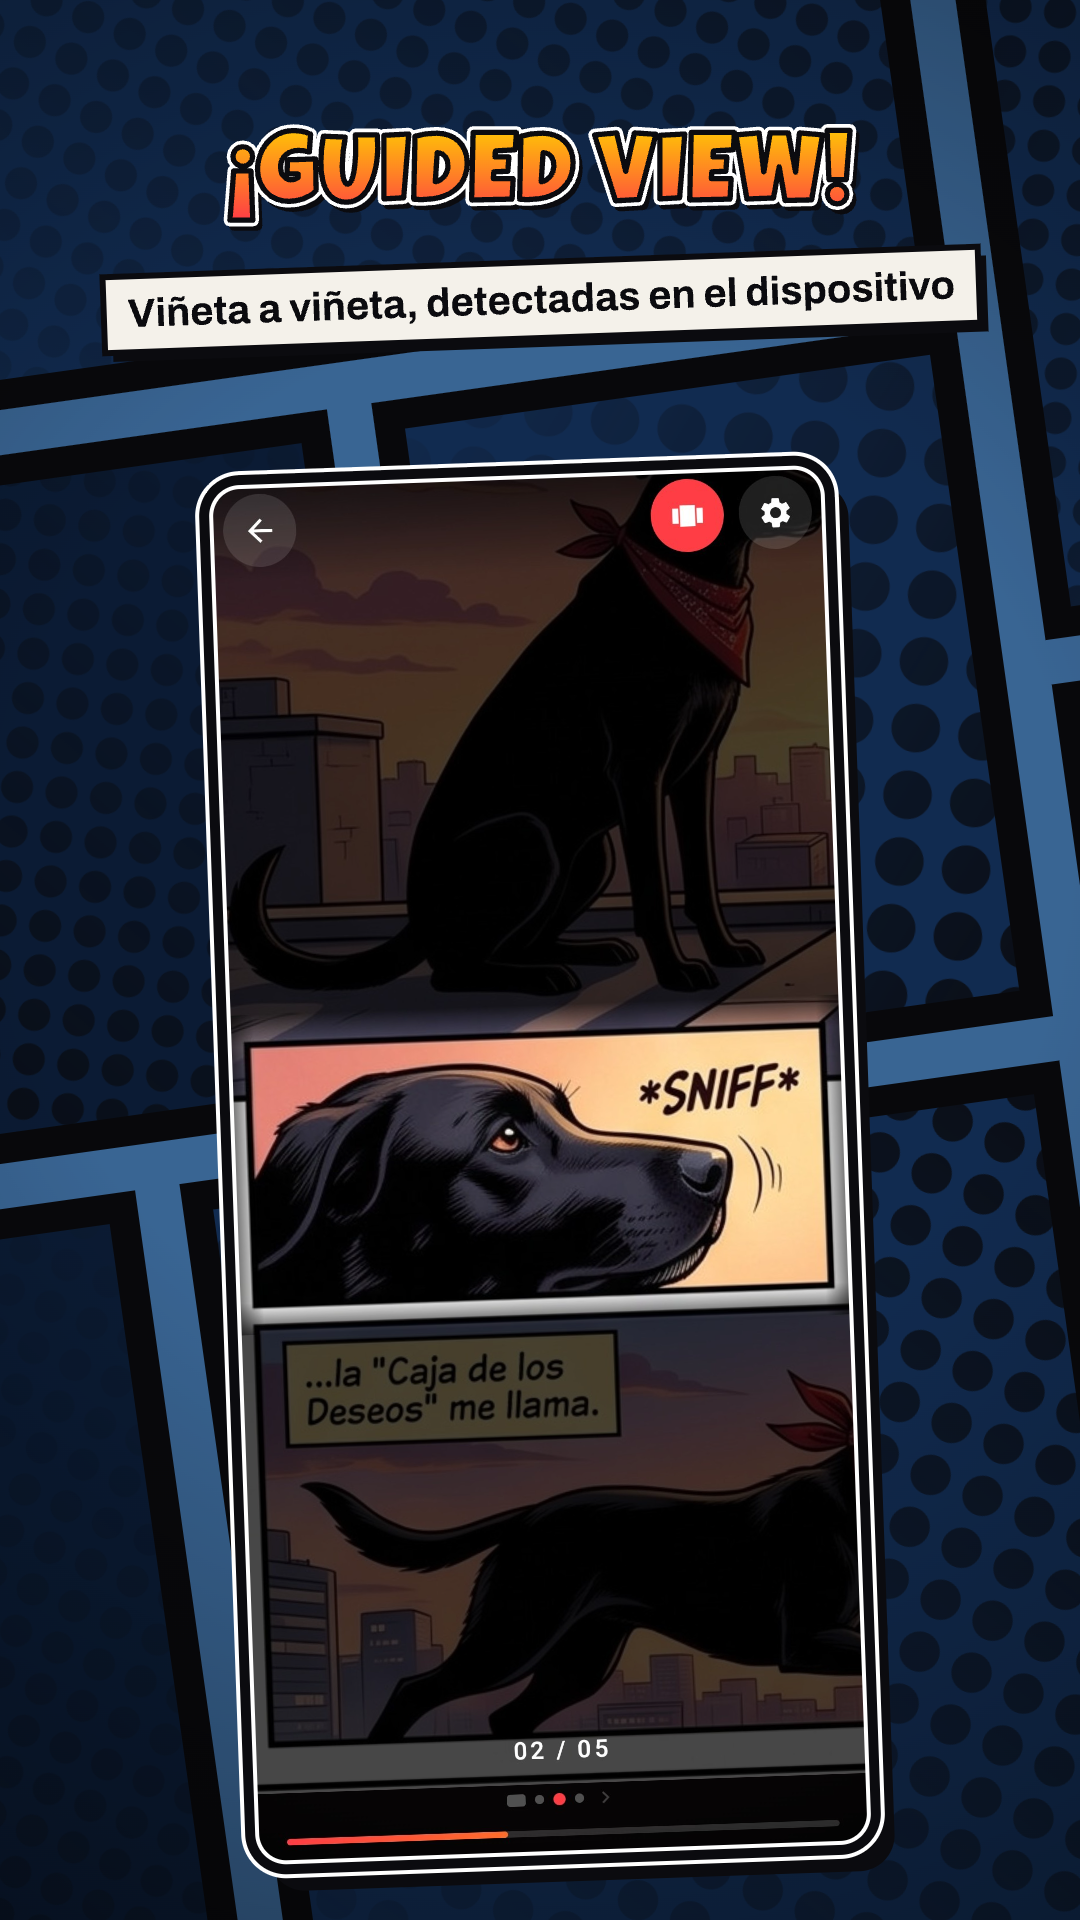
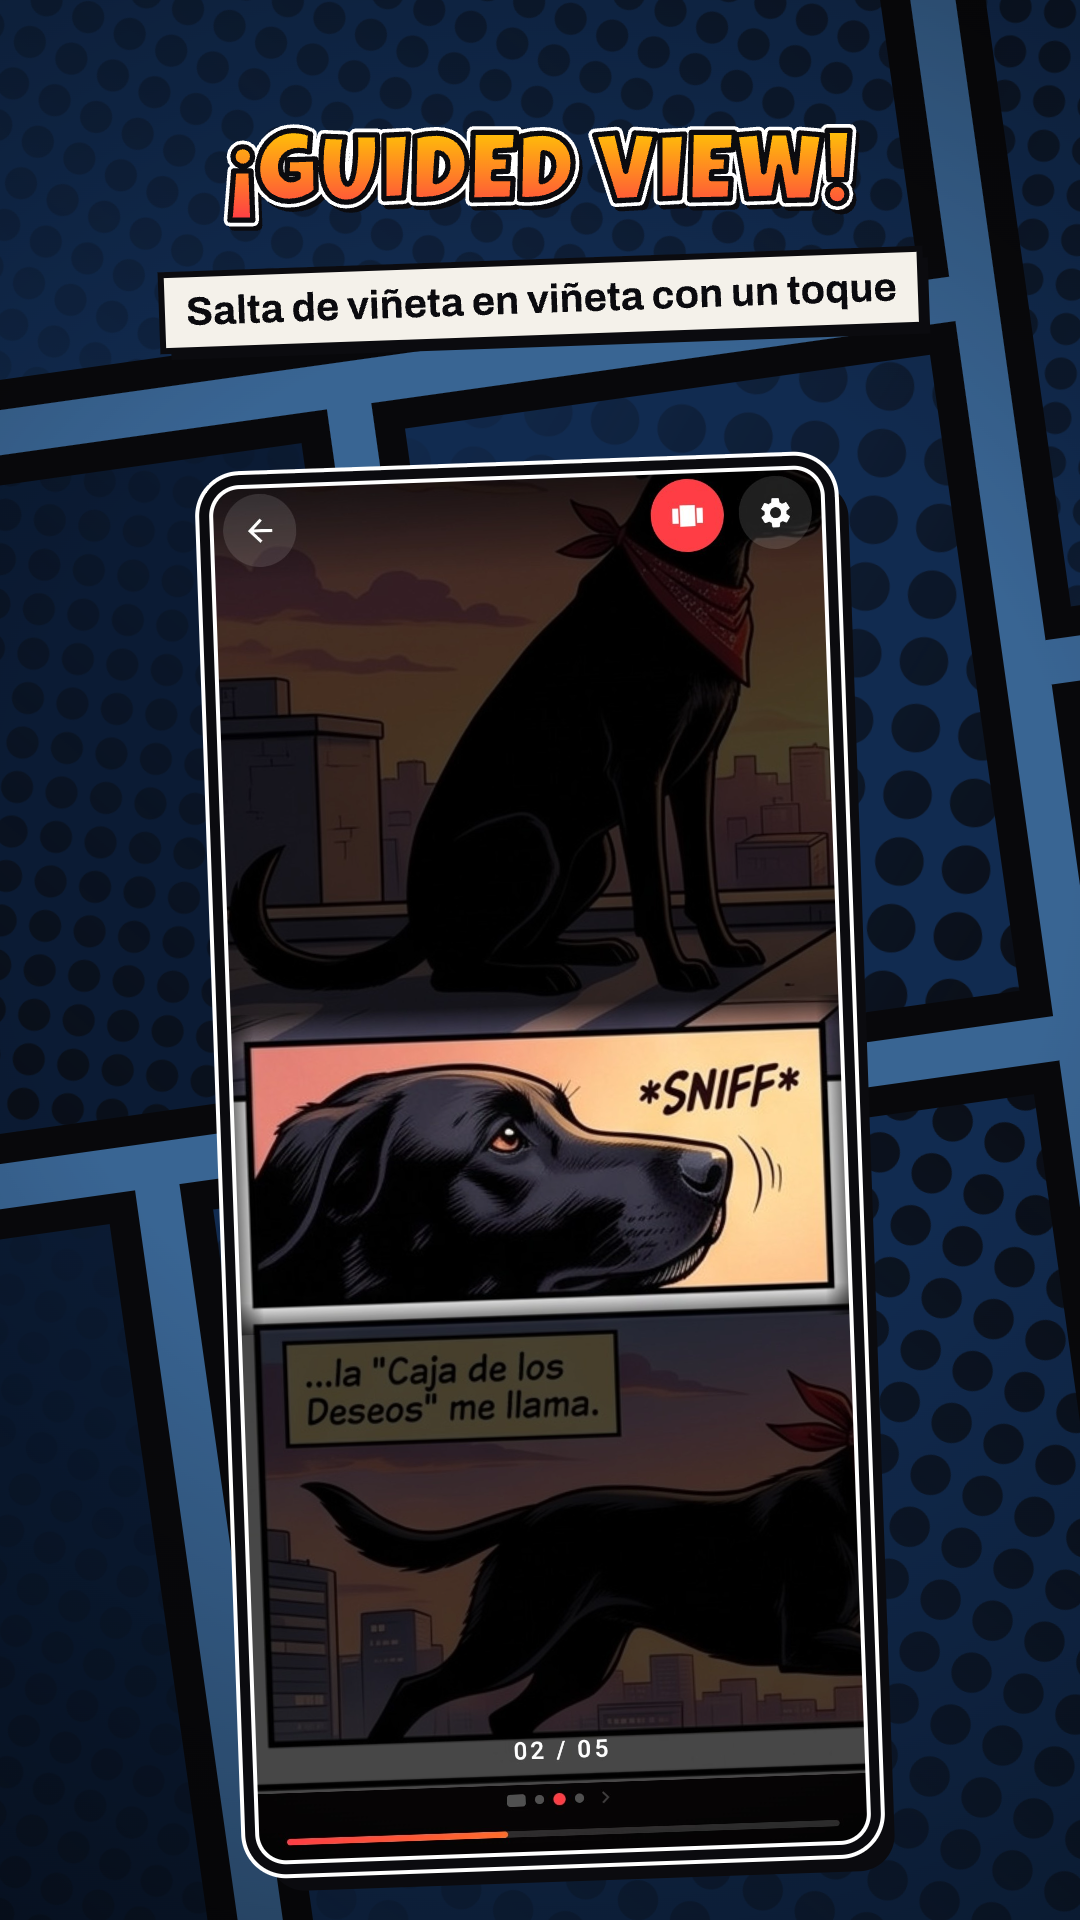
Sell the gesture in the Guided View store screenshot
Claude-Session: https://claude.ai/code/session_014XeJpzABRWZ7huQkFqWazA

Changed region(s): [[0.0917, 0.125, 0.5806, 0.1875], [0.6111, 0.125, 0.9167, 0.1875]]

diff --git a/tools/store_assets/screenshots.py b/tools/store_assets/screenshots.py
@@ -27,8 +27,8 @@ SHOTS = [
                          "es-ES": ("SIGUE DONDE LO DEJASTE", "Progreso, ajustes por cómic y una portada que puedes tocar")}),
     ("phone", "reader", {"en-US": ("CLEAN READING", "Edge taps turn the page; the centre shows the controls"),
                          "es-ES": ("LECTURA LIMPIA", "Toca los bordes para pasar página; el centro muestra los controles")}),
-    ("phone", "guided", {"en-US": ("GUIDED VIEW!", "Panel by panel, detected on-device"),
-                         "es-ES": ("¡GUIDED VIEW!", "Viñeta a viñeta, detectadas en el dispositivo")}),
+    ("phone", "guided", {"en-US": ("GUIDED VIEW!", "Jump panel to panel with a tap"),
+                         "es-ES": ("¡GUIDED VIEW!", "Salta de viñeta en viñeta con un toque")}),
     ("phone", "bubbles", {"en-US": ("BIGGER BUBBLES!", "Speech bubbles enlarged so you never squint again"),
                           "es-ES": ("¡BOCADILLOS XL!", "Bocadillos ampliados para no volver a entrecerrar los ojos")}),
     ("phone", "settings", {"en-US": ("YOUR LOOK", "Black, graphite or paper themes and seven accents"),
